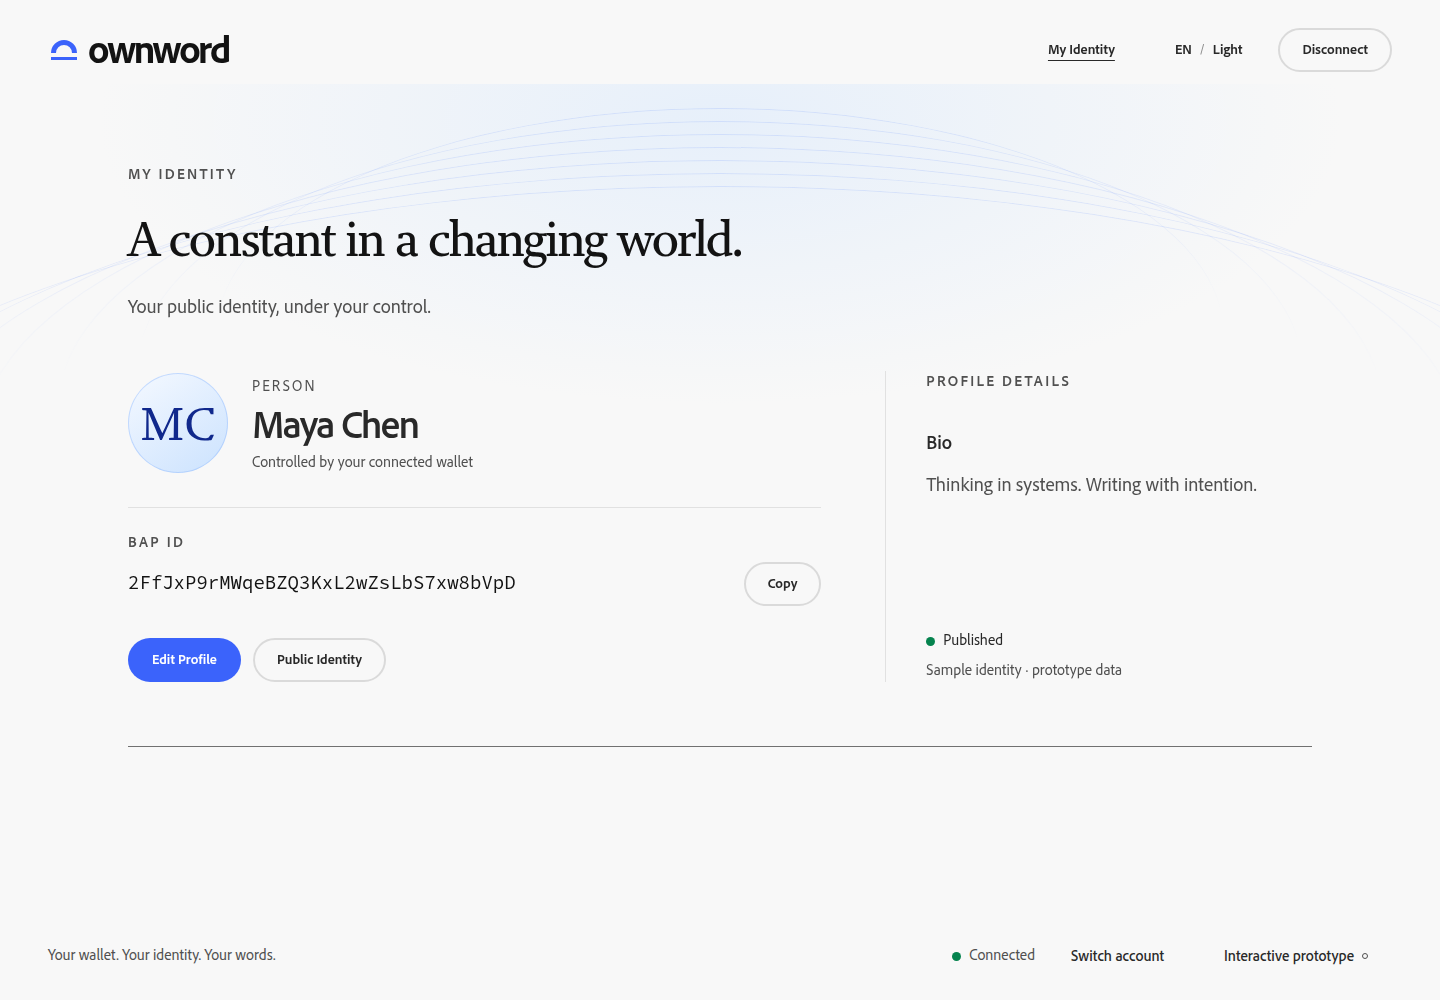
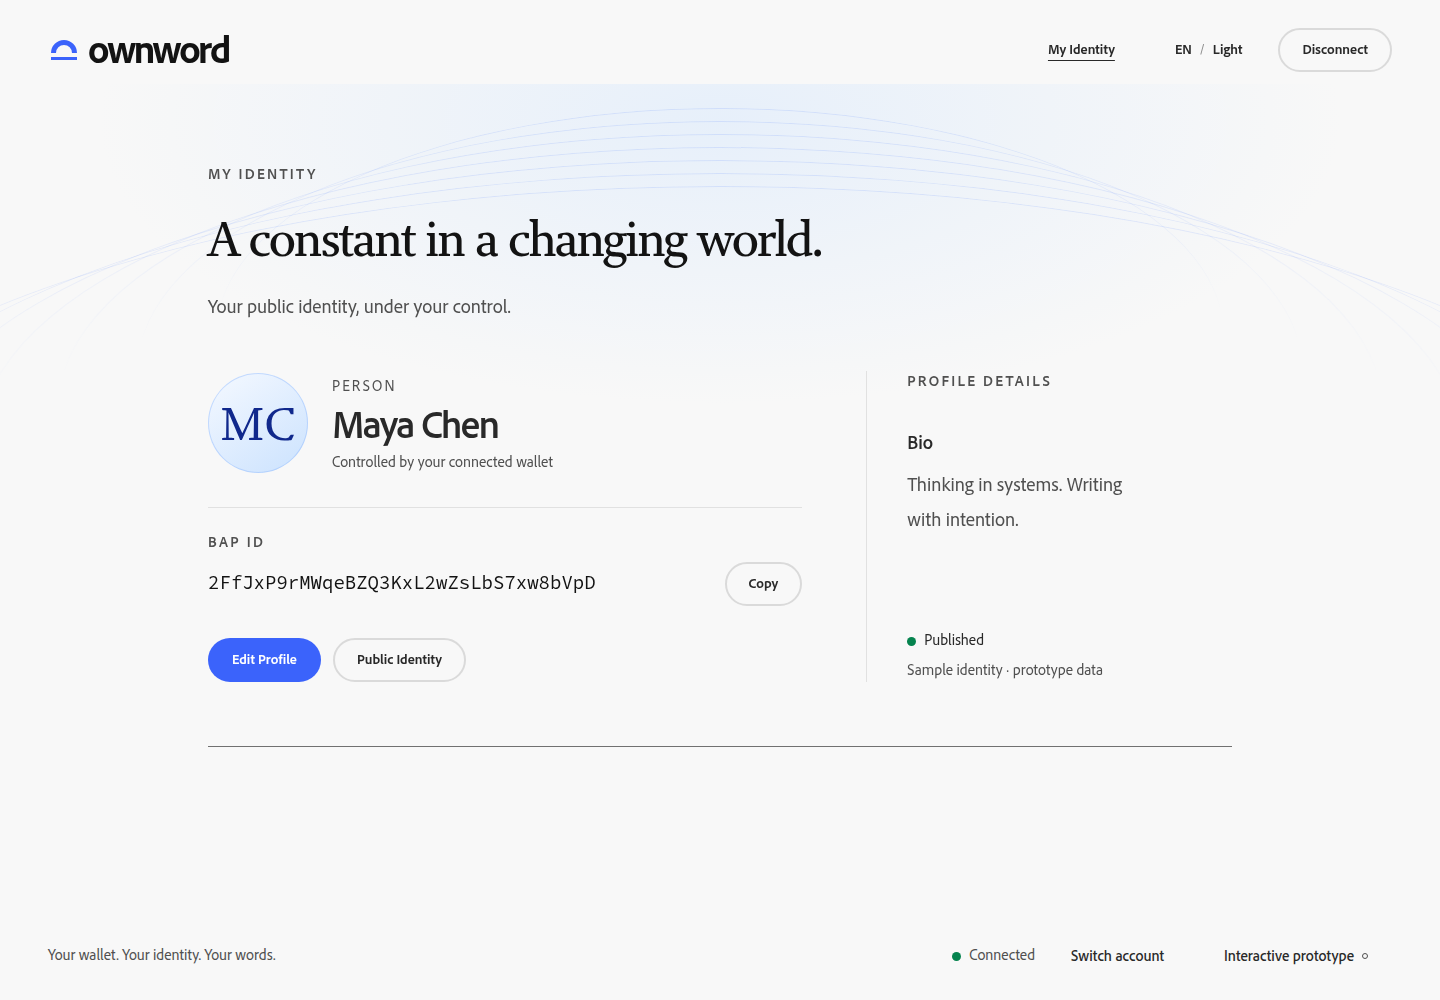
版面收窄到 1120px 并加矮窗口压缩：1220x555 主操作进首屏，320x568 底部操作条 (PRD v0.1_20260911-133906)

diff --git a/app.css b/app.css
@@ -38,7 +38,7 @@ button { touch-action: manipulation; }
 .dome[data-lit="true"] .sky-glow { opacity: .78; }
 .vault[data-pulse="true"] .vault-line { animation: resonance 2.4s cubic-bezier(.2,.65,.2,1) both; animation-delay: calc(var(--line) * 65ms); }
 @keyframes resonance { 0% { translate: 0 0; opacity: .8; } 30% { translate: 0 -14px; border-color: var(--s2-blue-600); opacity: 1; } 100% { translate: 0 0; opacity: 1; } }
-main { position: relative; width: 100%; max-width: 1280px; margin: 0 auto; padding: 0 var(--s2-spacing-700) var(--s2-spacing-700); flex: 1; }
+main { position: relative; width: 100%; max-width: 1120px; margin: 0 auto; padding: 0 var(--s2-spacing-700) var(--s2-spacing-700); flex: 1; }
 .welcome { position: relative; padding-top: 112px; text-align: center; display: flex; flex-direction: column; align-items: center; }
 .eyebrow { font-size: var(--s2-font-size-75); font-weight: 650; text-transform: uppercase; letter-spacing: .15em; color: var(--s2-gray-700); }
 .welcome h1 { display: flex; flex-direction: column; gap: var(--s2-spacing-75); margin-top: var(--s2-spacing-500); font-family: var(--s2d-font-serif), "Songti SC", "SimSun", serif; font-size: clamp(45px, 5.8vw, 82px); font-weight: 500; letter-spacing: -.055em; line-height: 1.12; color: var(--s2-gray-900); }
@@ -67,7 +67,7 @@ main { position: relative; width: 100%; max-width: 1280px; margin: 0 auto; paddi
 .flow-steps li span { font-family: var(--s2d-font-mono); font-size: var(--s2-font-size-75); color: var(--s2-gray-700); }
 .flow-steps li[aria-current] { color: var(--s2-blue-1100); font-weight: 700; }
 .flow-steps li[aria-current] span { color: var(--s2-blue-1100); }
-.workbench { display: grid; grid-template-columns: .9fr 1fr; gap: var(--s2-spacing-1000); padding-top: var(--s2-spacing-400); }
+.workbench { display: grid; grid-template-columns: .9fr 1fr; gap: var(--s2-spacing-800); padding-top: var(--s2-spacing-400); }
 .workbench > aside { padding-top: var(--s2-spacing-400); }
 .aside-identity { display: grid; gap: var(--s2-spacing-200); margin-top: var(--s2-spacing-700); padding-top: var(--s2-spacing-400); border-top: 1px solid var(--s2d-border); max-width: 380px; }
 .aside-identity code { font-family: var(--s2d-font-mono); font-size: var(--s2-font-size-100); overflow-wrap: anywhere; }
@@ -282,6 +282,30 @@ main { position: relative; width: 100%; max-width: 1280px; margin: 0 auto; paddi
      scrollport so short phones (320x568) do not require hunting inside it. */
   .modal .action-row { position: sticky; bottom: 0; z-index: 2; background: var(--s2d-layer-raised); margin-bottom: calc(-1 * var(--s2-spacing-500)); padding-block: var(--s2-spacing-200) var(--s2-spacing-500); }
   .modal .simulation-label { display: none; }
+  /* Short windows (a 1220x555 desktop window, or 320x568 phones) get a
+     compressed page: thinner chrome, tighter blocks, and form actions pinned
+     to the scrollport, so the primary action stays on screen without hunting. */
+  .topbar { min-height: 64px; padding-block: var(--s2-spacing-200); }
+  .notice { margin-top: 0; padding: var(--s2-spacing-200) var(--s2-spacing-300); }
+  .welcome { padding-top: 48px; }
+  .welcome h1 { margin-top: var(--s2-spacing-400); }
+  .workbench { padding-top: var(--s2-spacing-200); gap: var(--s2-spacing-500); }
+  .workbench > aside { padding-top: var(--s2-spacing-100); }
+  .page-heading h1 { font-size: var(--s2-font-size-800); }
+  .page-heading .eyebrow { margin-bottom: var(--s2-spacing-200); }
+  .page-heading > p:last-child { margin-top: var(--s2-spacing-200); }
+  .aside-identity { margin-top: var(--s2-spacing-400); padding-top: var(--s2-spacing-200); }
+  .profile-form, .review-profile { padding: var(--s2-spacing-300); gap: var(--s2-spacing-200); }
+  .workbench .portrait, .avatar-field .portrait { width: 56px; height: 56px; }
+  .field-wrap .s2d-field textarea { min-height: 72px; }
+  .form-footer { position: sticky; bottom: 0; z-index: 2; background: var(--s2d-layer-raised); margin-bottom: calc(-1 * var(--s2-spacing-300)); padding-block: var(--s2-spacing-200); }
+}
+@media (max-height: 640px) and (max-width: 650px) {
+  /* A phone-height window cannot keep a sticky footer inside the card: the
+     form's own content box caps how far it can travel. Pin the actions to the
+     viewport instead and reserve scroll room so no field hides beneath them. */
+  .form-footer { position: fixed; left: 0; right: 0; bottom: 0; margin-bottom: 0; z-index: 3; padding: var(--s2-spacing-200) var(--s2-spacing-500); background: var(--s2d-layer-raised); border-top: 1px solid var(--s2d-border); }
+  main { padding-bottom: 104px; }
 }
 @media (prefers-reduced-motion: reduce) {
   .brand-loading .brand-mark, .brand-loading::before { animation: none; }

diff --git a/check-browser.py b/check-browser.py
@@ -446,6 +446,16 @@ try:
     click_action('review'); click_action('submit-operation'); click_action('cancel')
     wait_page('edit')
     expect('document.querySelector("#profile-name").value === "Maya Revised" && document.querySelector("[data-notice]")?.dataset.notice === "saveCancelled"', 'Save cancellation retains editing values on form')
+    # The responsive matrix varies width only, so a wide-but-short window (a
+    # 1220x555 desktop window, or a 320x568 phone) is checked here: the form
+    # actions must stay on screen instead of hiding below the fold.
+    call('set', 'viewport', 1220, 555); settle()
+    expect('document.documentElement.scrollWidth <= innerWidth', 'Short desktop window 1220x555 no page overflow')
+    expect('["[data-action=back]", "[data-action=review]"].every(s=>{const r=document.querySelector(s).getBoundingClientRect();return r.top>=0&&r.bottom<=innerHeight})', 'Short desktop window keeps the form actions in view')
+    call('set', 'viewport', 320, 568); settle()
+    expect('document.documentElement.scrollWidth <= innerWidth', 'Short phone window 320x568 no page overflow')
+    expect('["[data-action=back]", "[data-action=review]"].every(s=>{const r=document.querySelector(s).getBoundingClientRect();return r.top>=0&&r.bottom<=innerHeight})', 'Short phone window keeps the form actions in view')
+    call('set', 'viewport', 1440, 1000); settle()
     inspect('edit', True)
     click_action('review'); click_action('submit-operation'); click_action('approve')
     wait_page('identity')

diff --git a/verification.md b/verification.md
@@ -200,7 +200,7 @@ HTTP 日志中的 6 个错误路径来自执行 axe 后新增的 XHR。独立会
 ## 术语与设计系统一致性
 
 - **术语**：按核心认知第 2.3 节扫描原型文案与结构，禁区用词命中数为 0（`注册`、`登录`、`sign up`、`log in`、`register`、`Verified`、`BAP NFT`、`Create BAP NFT`、`Broadcast`、`Push`）；唯一 `Submit` 命中是表单事件处理器名 `onSubmit`，不是用户文案。Publish 用词统一为 `Published` / `Publishing`。记录见 `evidence/term-scan.txt`。
-- **设计系统**：`check-tokens.py` 提取原型自身 CSS 中全部 `var(--s2*)` 引用，与 `_ds/react-spectrum-s2` 下 7 个 CSS 文件定义的 2509 个令牌比对，66 个引用全部解析，无未定义令牌。记录见 `evidence/token-resolution.json`。
+- **设计系统**：`check-tokens.py` 提取原型自身 CSS 中全部 `var(--s2*)` 引用，与 `_ds/react-spectrum-s2` 下 7 个 CSS 文件定义的 2509 个令牌比对，65 个引用全部解析，无未定义令牌。记录见 `evidence/token-resolution.json`。
 - **axe incomplete 复核**：32 项 incomplete 均为 `color-contrast`，原因是文本位于装饰层、渐变或伪元素之上，axe 无法判定背景。逐项复核方式：取实测计算样式（颜色、字号、字重）与元素实际背景（页面表面或身份卡渐变的三个端点色），按 WCAG 2.1 计算最差对比度。48 组组合全部达标，最差 6.37:1（`.eyebrow` 深色，要求 4.5:1）。记录见 `evidence/axe-incomplete-review.json`。
 
 ## 同步评估与边界
@@ -240,7 +240,22 @@ HTTP 日志中的 6 个错误路径来自执行 axe 后新增的 XHR。独立会
 
 已发现并修复（实现层）：320px Review 页 BAP ID 所在 Grid 的固有最小宽度导致 Copy 按钮溢出；设置 `minmax(0, 1fr)` 后复测。头像回退标识补上 img 语义；Save 取消返回编辑表单并保留值；离开未发布 Setup 后清除会话。
 
-最终结果：74 条状态断言、450 项浏览器检查通过。38 份 axe 审计（32 份页面 + 6 份瞬时状态）0 violations；32 项 incomplete 全为 `color-contrast`（文本位于装饰层、渐变、伪元素或弹窗背景之上，axe 无法判定背景），逐条记录于 `evidence/axe-incomplete-summary.json`，人工复核见 `evidence/axe-incomplete-review.json`（新增的 `.welcome-intro` 两个节点在表中已覆盖，13.7:1）。运行错误列表为空（`evidence/browser-errors.txt` 为空）。桌面以及 320px 的 Welcome、Setup、Review、Ready、My Identity、Public Identity、Edit Profile、Resolution error 均完成双语/双主题检查。头像、焦点约束、Processing 期间切换账户、减少动态效果与指针律动的补查见 `evidence/edge-checks.json`。人工截图复核后另缩小移动端头像首字母，避免圆形边缘裁切。
+## 版面宽度与矮窗口（2026-09-11）
+
+用户报告 1220×555（截图 2439×1110 物理像素 ÷ DPR 2）的窗口下「界面太宽、太高」。量测确认原因是两个固定预算叠加，而不是渲染异常：
+
+| 现象 | 原因 | 改动 |
+| --- | --- | --- |
+| 太宽 | `main` 的 `max-width: 1280px` 大于窗口 1220 → 上限不生效，内容整宽铺开，左右只剩 48px 内边距；双栏 gap 96px | `main` 收窄到 **1120px**（宽窗口两侧留白），`.workbench` gap 96 → **64px** |
+| 太高 | topbar 100px + 通知条 87px + 表单卡 682px = 整页 1042px，而窗口仅 555px 高；页面级版式没有任何矮窗口断点（唯一的 `max-height: 640px` 只管弹窗） | 在 `@media (max-height: 640px)` 内压缩页面：topbar 100 → 64px、间距降档、`.page-heading h1` 降到 32px、表单 padding/gap 收紧、bio 文本域 112 → 72px、头像 76 → 56px；表单操作行 sticky 到视口底 |
+
+实测（编辑页 + `Saving cancelled` 通知条）：1220×555 整页高度 1042 → **771px**，操作行由「低于首屏 249px」变为 **486–555 可见**；320×568 因卡片自身内容盒限制了 sticky 行程，改用 `position: fixed` 的底部操作条（并给 `main` 留 104px 滚动余量），操作行 499–568 可见，无横向溢出。
+
+新增 4 条断言（响应式矩阵原本只变宽度、高度恒为 800，这类窗口从未被覆盖）：`Short desktop window 1220x555 no page overflow`、`Short desktop window keeps the form actions in view`、`Short phone window 320x568 no page overflow`、`Short phone window keeps the form actions in view`。
+
+范围说明：390×844 这类常规手机高度不做压缩（页面正常滚动），压缩只在高度 < 640px 时生效。
+
+最终结果：74 条状态断言、454 项浏览器检查通过。38 份 axe 审计（32 份页面 + 6 份瞬时状态）0 violations；32 项 incomplete 全为 `color-contrast`（文本位于装饰层、渐变、伪元素或弹窗背景之上，axe 无法判定背景），逐条记录于 `evidence/axe-incomplete-summary.json`，人工复核见 `evidence/axe-incomplete-review.json`（新增的 `.welcome-intro` 两个节点在表中已覆盖，13.7:1）。运行错误列表为空（`evidence/browser-errors.txt` 为空）。桌面以及 320px 的 Welcome、Setup、Review、Ready、My Identity、Public Identity、Edit Profile、Resolution error 均完成双语/双主题检查。头像、焦点约束、Processing 期间切换账户、减少动态效果与指针律动的补查见 `evidence/edge-checks.json`。人工截图复核后另缩小移动端头像首字母，避免圆形边缘裁切。
 
 已复核事实来源、版本范围、验收映射、异常恢复与后端同步边界。没有原型范围内的阻塞待确认项。提交见任务记录。
 

diff --git a/implementation-handoff.md b/implementation-handoff.md
@@ -13,10 +13,10 @@
 | `components.jsx` | S2 组件适配层：为设计系统返回的元素补受控输入、ARIA、事件与表单提交 |
 | `app.css` | 视觉：穹顶、地平线、语义表面、3D 身份板 |
 | `_ds/react-spectrum-s2/` | 设计系统（只读，不修改） |
-| `check-model.cjs` | 59 项状态断言 |
-| `check-browser.py` | 360 项浏览器断言（双语、双主题、四宽度、axe） |
+| `check-model.cjs` | 状态断言（几何、能力、标识、校验、状态机、术语、视图） |
+| `check-browser.py` | 浏览器断言（双语、双主题、四宽度矩阵 + 短窗口、axe 审计；当前条数以 `verification.md` 为准） |
 | `check-offline.py` | 4 项离线启动断言（阻断外部域） |
-| `check-tokens.py` | 设计系统令牌解析检查（66 个引用对 2509 个令牌） |
+| `check-tokens.py` | 设计系统令牌解析检查（原型 CSS 全部 `var(--s2*)` 引用对 2509 个令牌） |
 | `check-copy.cjs` | 双语词典契约检查 |
 | `brand.html`、`brand-explorations.html` | 品牌图标规范与方向探索页，供设计参考；不是产品页面，生产不迁移 |
 
